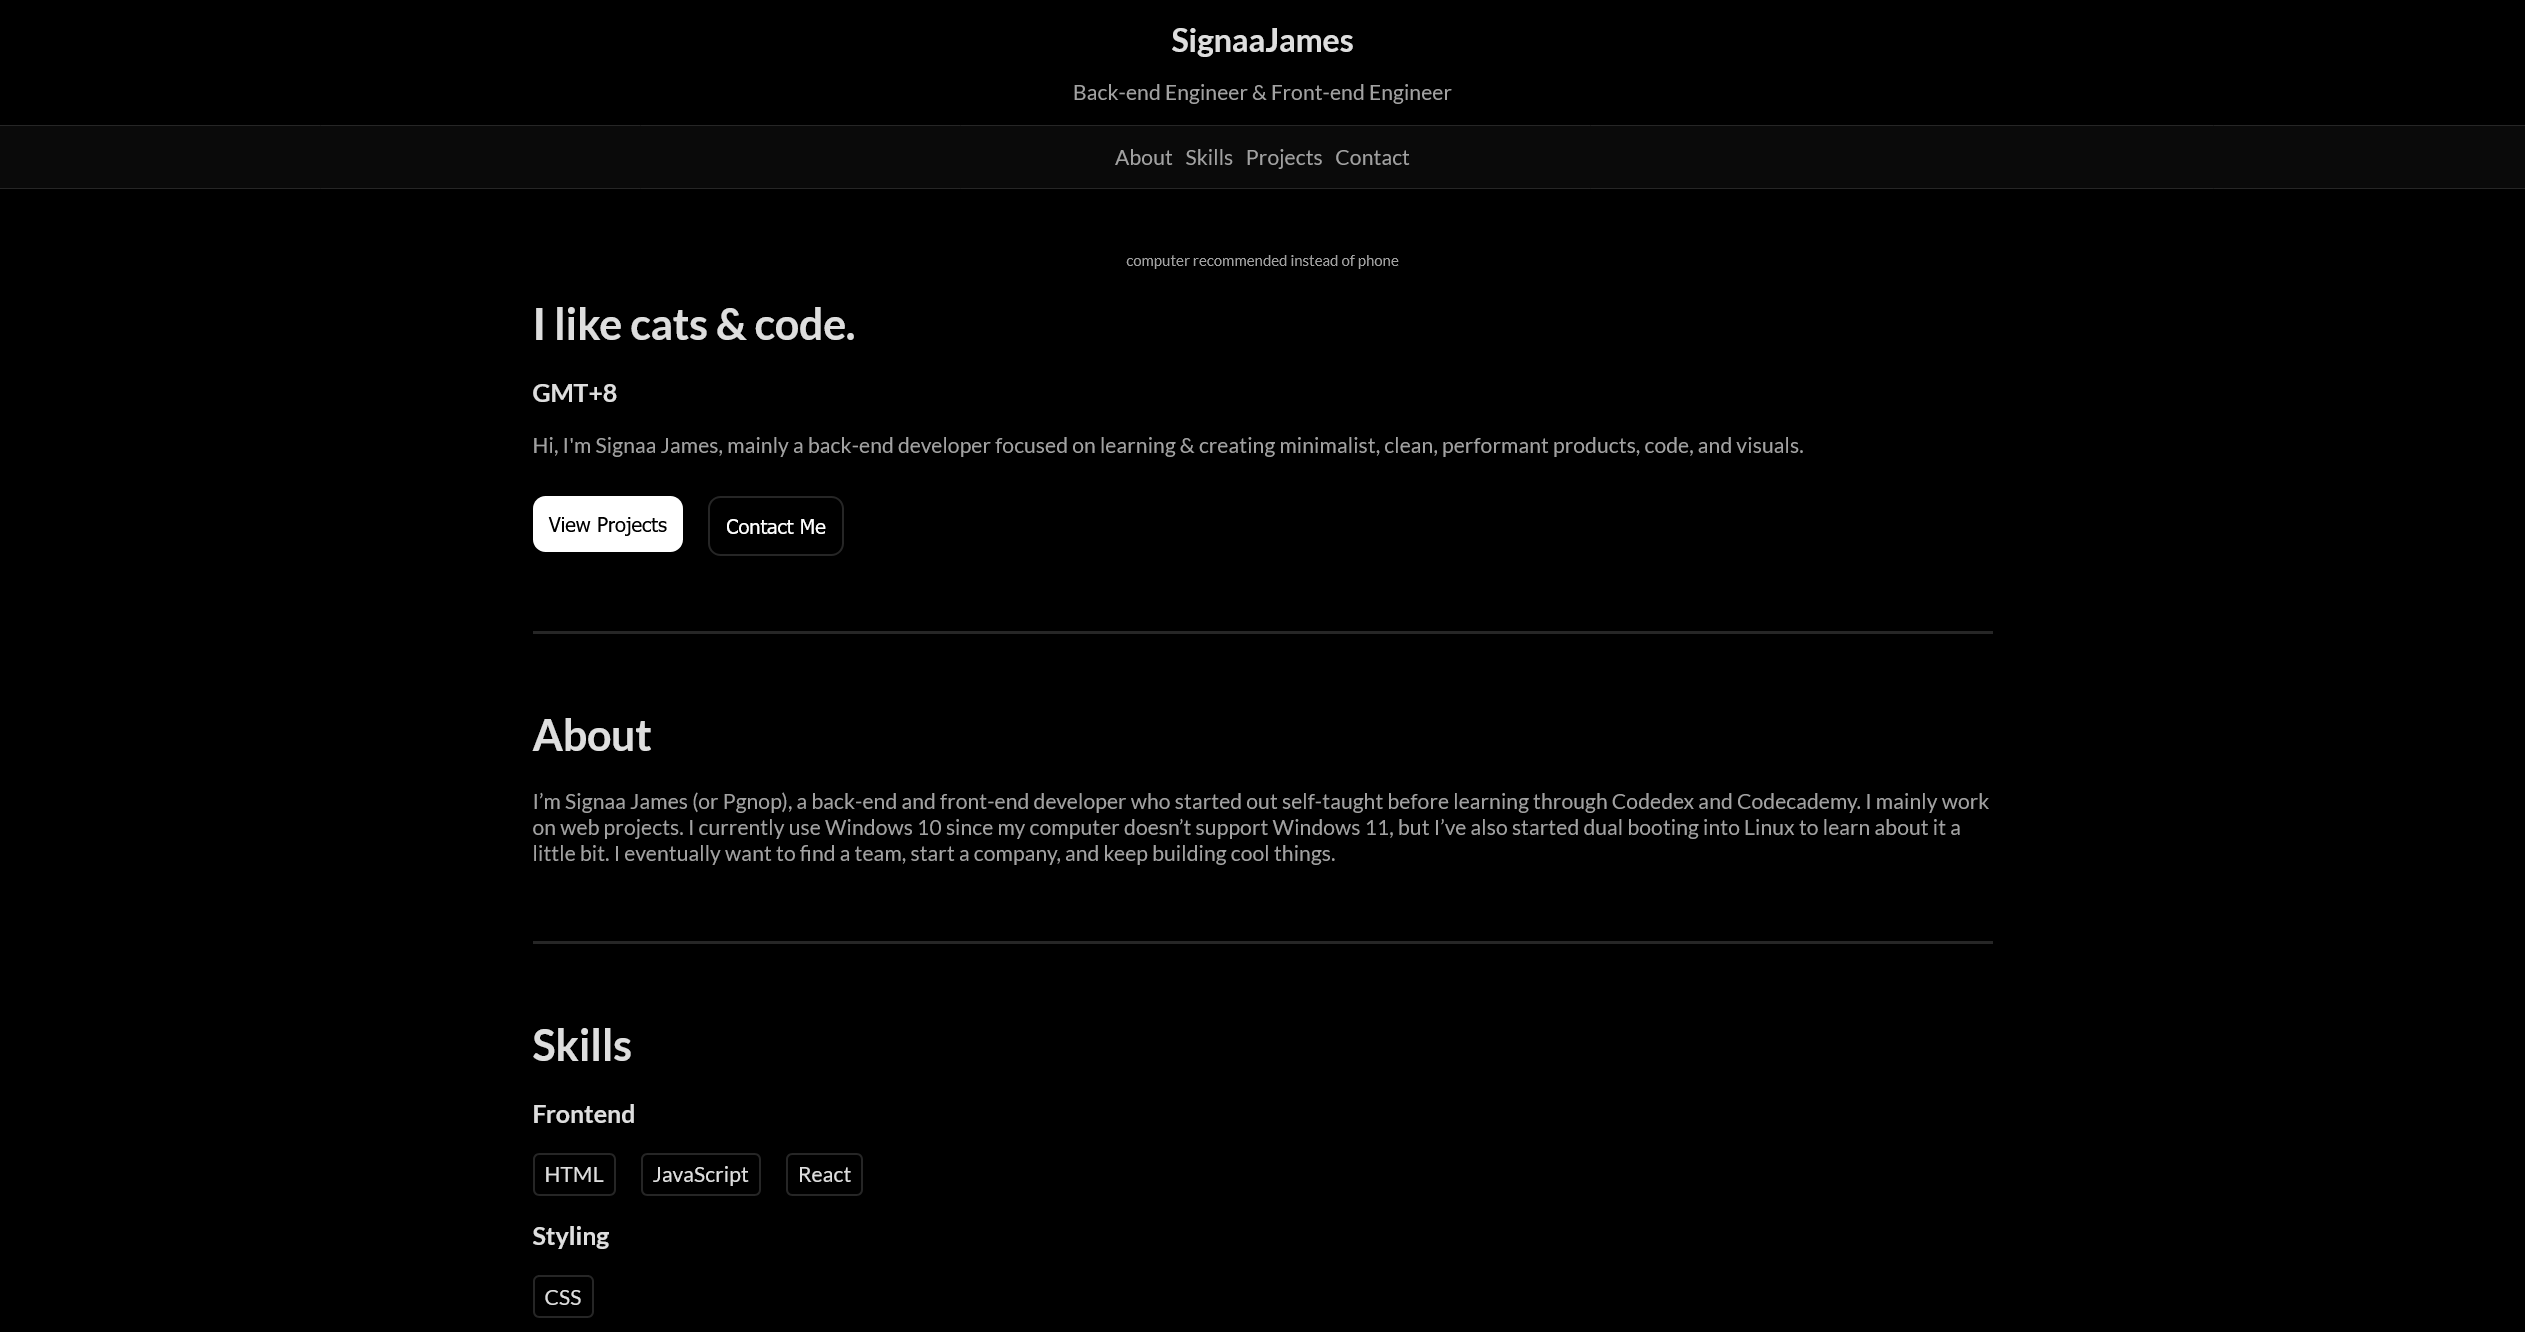
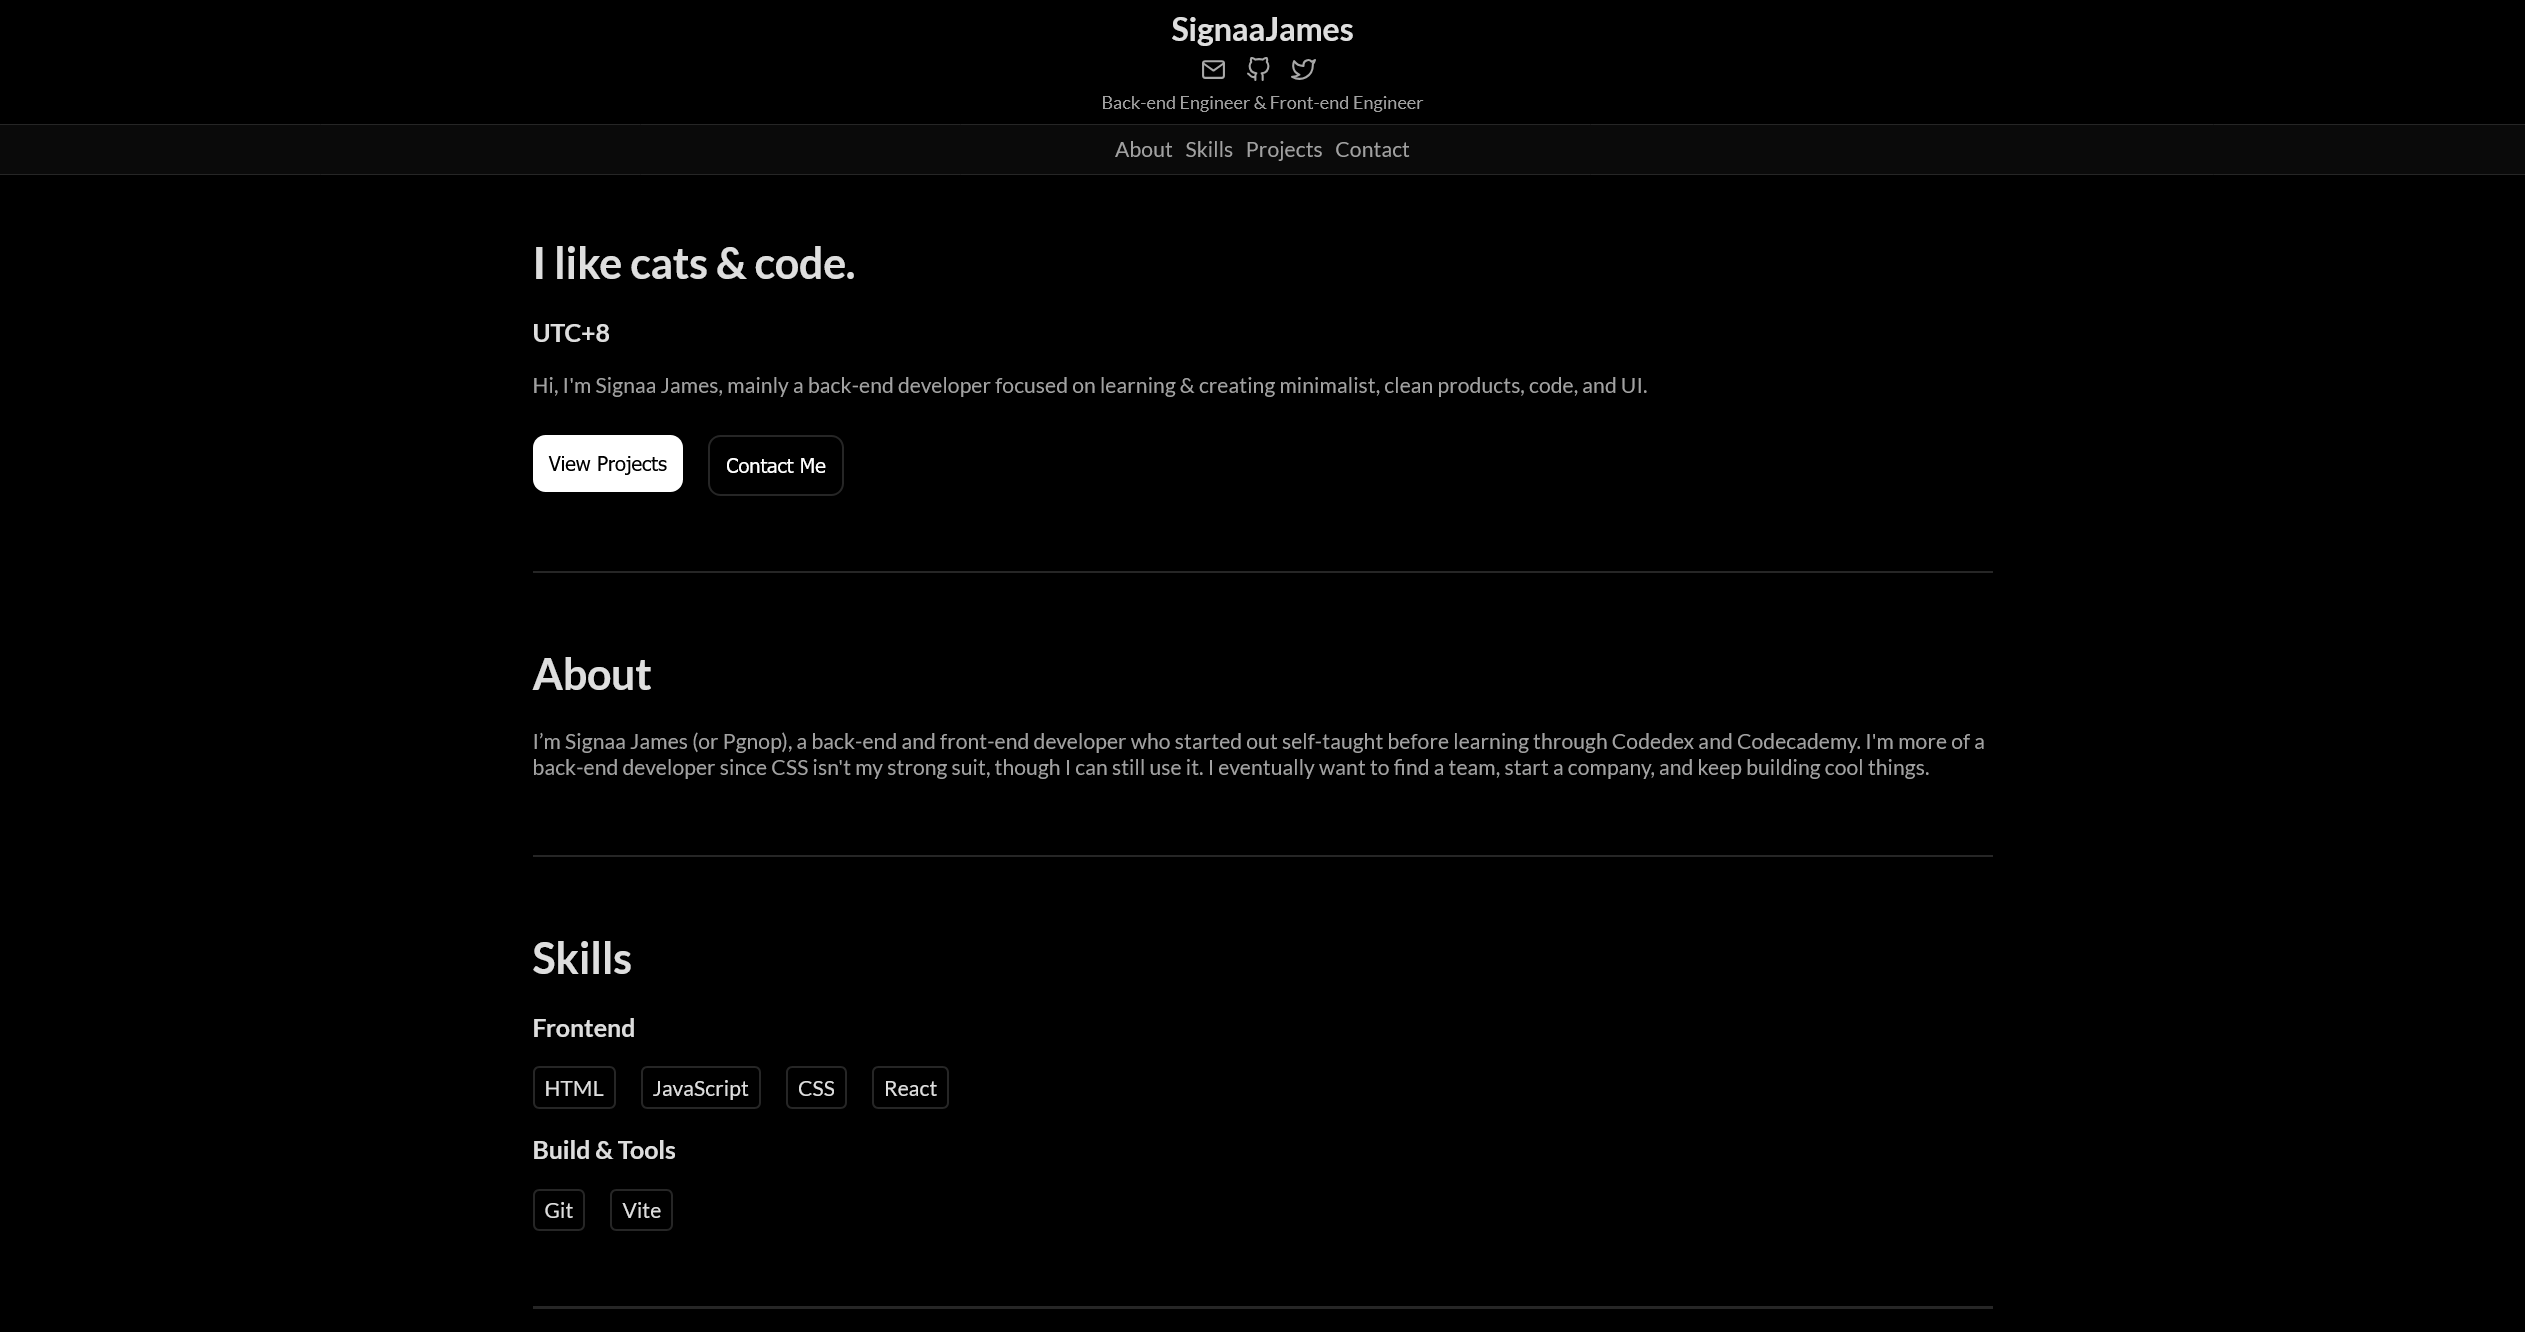
Changed the screenshot display of the portfolio for the readme

diff --git a/src/main.js b/src/main.js
@@ -63,7 +63,7 @@ app.innerHTML = /*html*/`
       <h1>About</h1>
       <section class='content-section'>
         <p>
-          I’m Signaa James (or Pgnop), a back-end and front-end developer who started out self-taught before learning through Codedex and Codecademy.
+          I’m Signaa James, a back-end and front-end developer who started out self-taught before learning through Codedex and Codecademy.
 
           I'm more of a back-end developer since CSS isn't my strong suit, though I can still use it.
 
